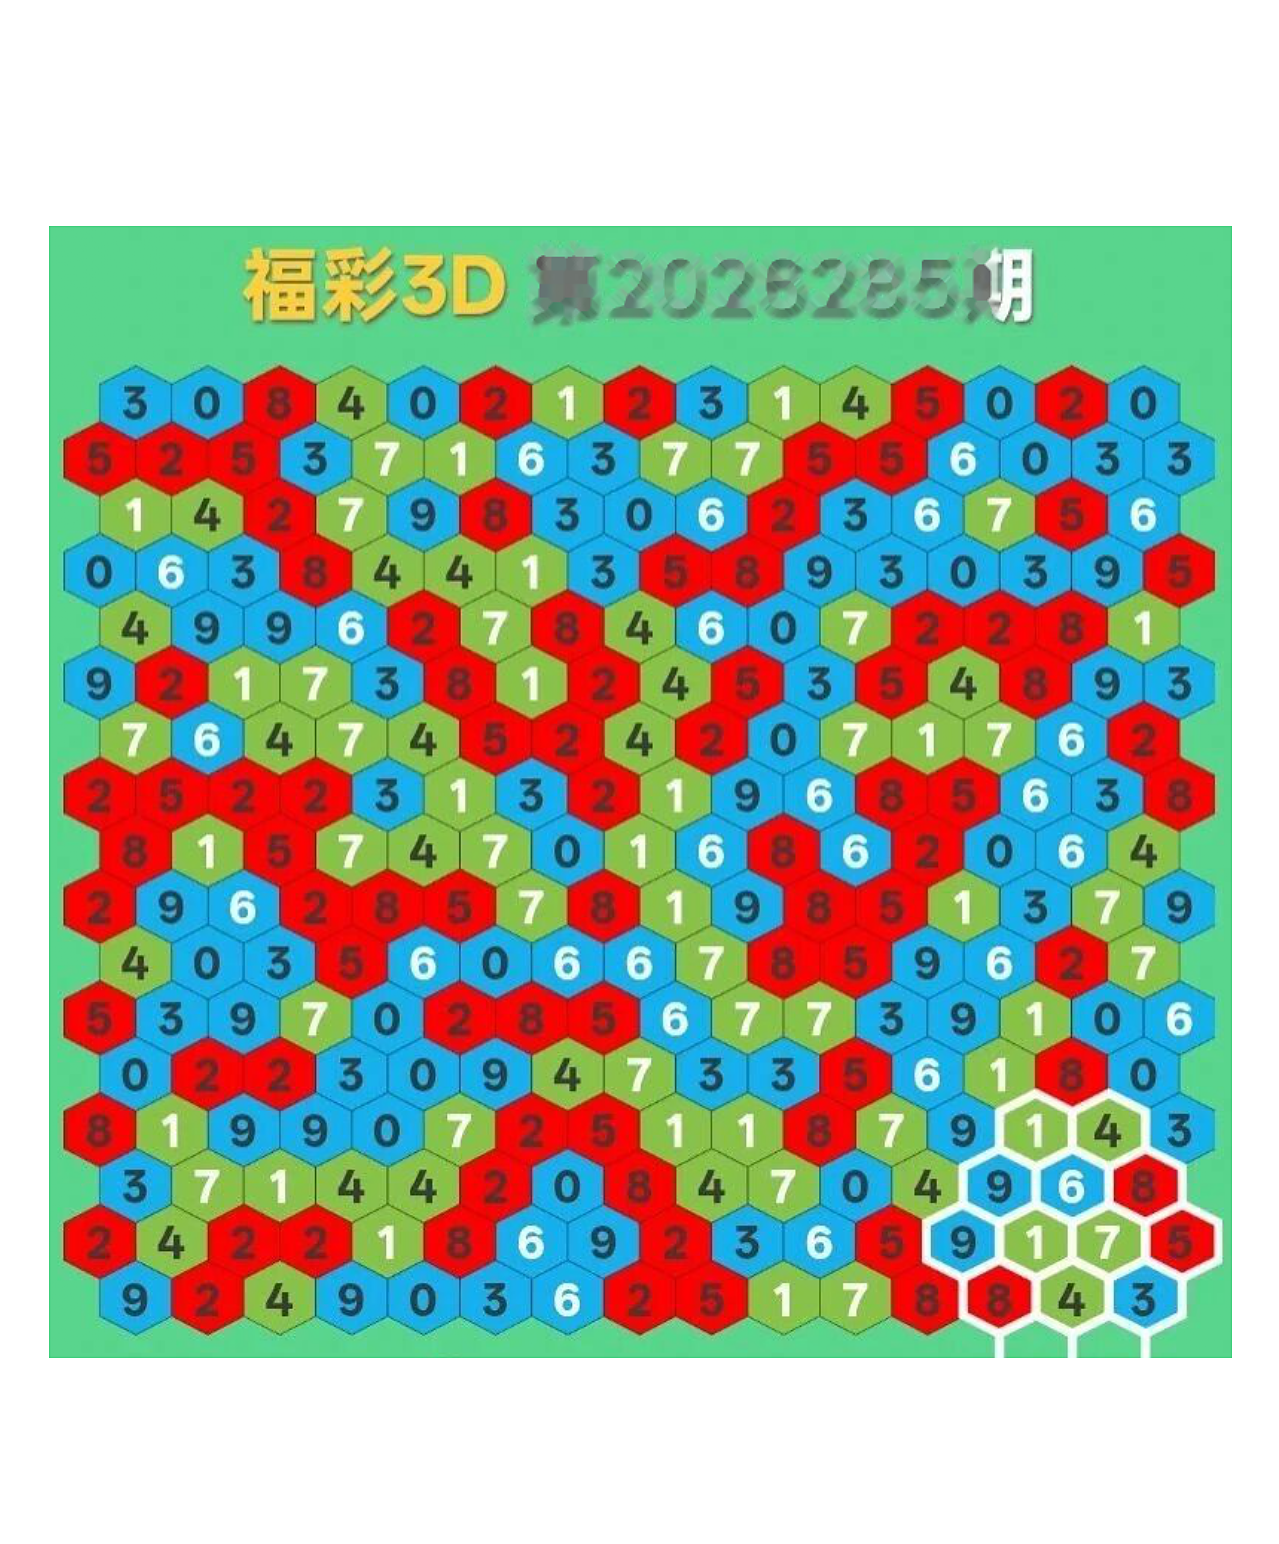
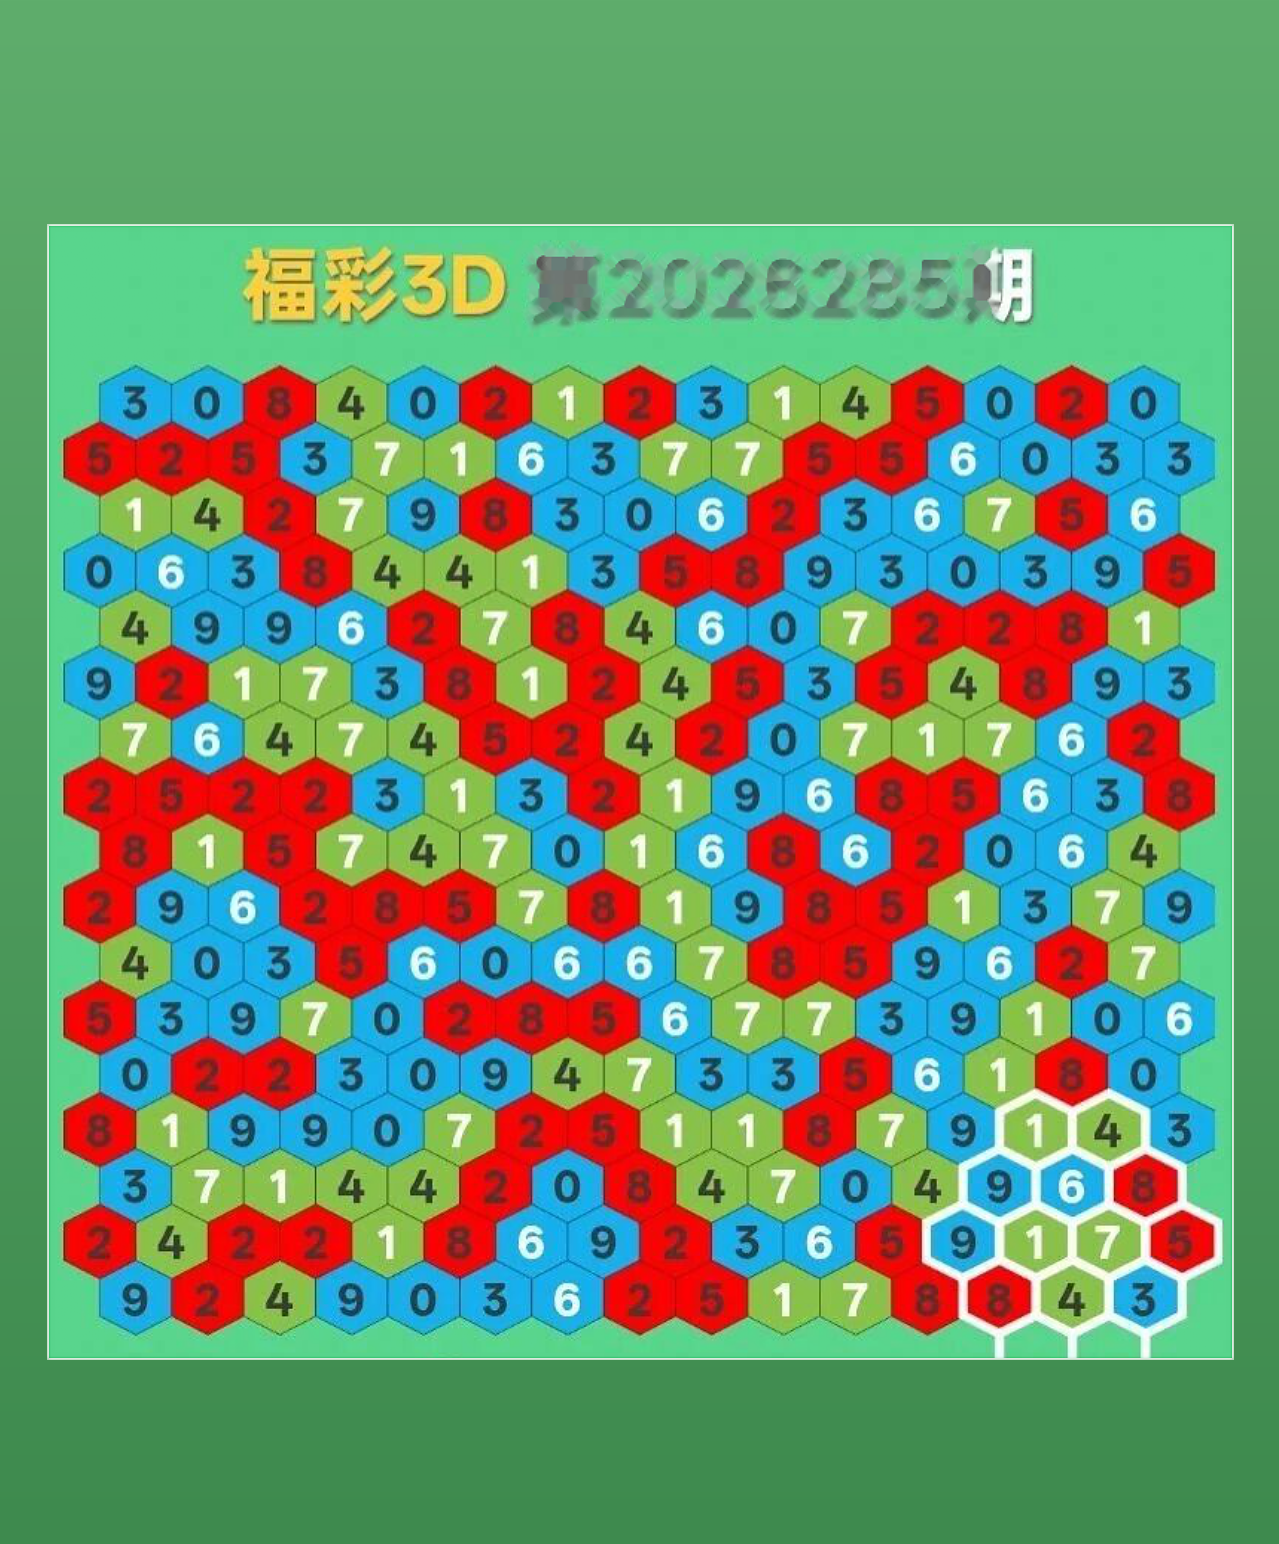
feat: fix honeycomb base and move only the 14-cell window

diff --git a/index.html b/index.html
@@ -1096,7 +1096,7 @@ function hcPickWindow(base, prevNumber) {
         if (!bestMatch ||
             compact < bestMatch.compact - 1e-6 ||
             (Math.abs(compact - bestMatch.compact) <= 1e-6 && centerError < bestMatch.centerError - 1e-6)) {
-          bestMatch = { compact, centerError };
+          bestMatch = { compact, centerError, picked: picked.map(p => p.index) };
         }
         return;
       }
@@ -1114,32 +1114,34 @@ function hcPickWindow(base, prevNumber) {
     if (bestMatch && (!best ||
         bestMatch.compact < best.compact - 1e-6 ||
         (Math.abs(bestMatch.compact - best.compact) <= 1e-6 && bestMatch.centerError < best.centerError - 1e-6))) {
-      best = { compact: bestMatch.compact, centerError: bestMatch.centerError, cells };
+      best = { compact: bestMatch.compact, centerError: bestMatch.centerError, cells, picked: bestMatch.picked };
     }
   });
-  return best ? best.cells : null;
+  if (!best) return null;
+  const centers = best.cells.map(p => center(p.r, p.c));
+  const pc = best.picked.map(i => centers[i]);
+  const rest = best.cells.map((p, i) => i).filter(i => !best.picked.includes(i));
+  let bestRef = null;
+  for (let a = 0; a < rest.length; a++) {
+    for (let b = a + 1; b < rest.length; b++) {
+      for (let c = b + 1; c < rest.length; c++) {
+        const trio = [rest[a], rest[b], rest[c]];
+        let sum = 0;
+        trio.forEach(i => pc.forEach(q => { sum += dist(centers[i], q); }));
+        if (!bestRef || sum < bestRef.sum - 1e-6) bestRef = { sum, trio };
+      }
+    }
+  }
+  const trio = bestRef ? bestRef.trio.slice().sort((x, y) => x - y) : [];
+  const ref = trio.map(i => base.digits[best.cells[i].r][best.cells[i].c]).join('');
+  return { cells: best.cells, ref };
 }
 
 const HC_TITLE = {
-  cnSize: 60,
-  cnScale: 1.16,
-  digitSize: 75,
-  digitScale: 1.30,
-  cnBaseline: 314,
-  digitBaseline: 316,
-  left: { ch: '第', x: 562 },
-  right: { ch: '期', x: 1002.5 },
-  digitX: [628, 680, 731.5, 783.5, 834.5, 885, 937],
-  labelX: [619.5, 656.5, 692, 731, 765.5, 799],
-  labelBaseline: 1488,
-  labelSize: 27,
-  bracketX: [839, 985],
-  bracketBaseline: 1489,
-  bracketSize: 30,
-  numberX: [876, 911.5, 948],
-  numberBaseline: 1491,
-  numberSize: 42,
-  numberScale: 1.66
+  brand: { text: '福彩3D', x: 440, size: 60, baseline: 330 },
+  issue: { size: 62, baseline: 332, x: 762 },
+  foot: { size: 36, x: 150, baseline1: 1442, baseline2: 1508 },
+  prev: { text: '< 上期', x: 62, size: 30, baseline: 1510 }
 };
 
 function hcTextChar(ch, x, y, size, scale, weight, fill) {
@@ -1152,40 +1154,42 @@ function hcTextChar(ch, x, y, size, scale, weight, fill) {
   return '<text x="' + x + '" y="' + y + '" text-anchor="middle" ' + attrs + '>' + ch + '</text>';
 }
 
-function hcTextParts(issue, prevNumber, fill) {
+function hcTxt(ch, x, y, size, fill, weight, anchor) {
+  return '<text x="' + x + '" y="' + y + '" text-anchor="' + (anchor || 'middle') + '" font-family="' + HC.font + '" font-size="' + size + '" fill="' + fill + '"' +
+    (weight ? ' stroke="' + fill + '" stroke-width="' + weight + '" paint-order="stroke" stroke-linejoin="round"' : '') + '>' + ch + '</text>';
+}
+
+function hcTextParts(issue, prevNumber, ref, tone) {
   const t = HC_TITLE;
-  const parts = [hcTextChar(t.left.ch, t.left.x, t.cnBaseline, t.cnSize, t.cnScale, 4.2, fill)];
-  String(issue).split('').forEach((d, i) => {
-    const x = t.digitX[i] || (t.digitX[t.digitX.length - 1] + 52 * (i - 6));
-    parts.push(hcTextChar(d, x, t.digitBaseline, t.digitSize, t.digitScale, 4.4, fill));
-  });
-  parts.push(hcTextChar(t.right.ch, t.right.x, t.cnBaseline, t.cnSize, t.cnScale, 4.2, fill));
-  '上期开奖号：'.split('').forEach((ch, i) => {
-    parts.push(hcTextChar(ch, t.labelX[i], t.labelBaseline, t.labelSize, 1, 1.6, fill));
-  });
-  String(prevNumber).split('').forEach((d, i) => {
-    const x = t.numberX[i] || (t.numberX[t.numberX.length - 1] + 36 * (i - 2));
-    parts.push(hcTextChar(d, x, t.numberBaseline, t.numberSize, t.numberScale, 4.0, fill));
-  });
-  parts.push(hcTextChar('【', t.bracketX[0], t.bracketBaseline, t.bracketSize, 1, 2.2, fill));
-  parts.push(hcTextChar('】', t.bracketX[1], t.bracketBaseline, t.bracketSize, 1, 2.2, fill));
+  const main = tone === 'shadow' ? '#2c6539' : '#fff';
+  const accent = tone === 'shadow' ? '#7a6a12' : '#ffe14d';
+  const parts = [];
+  parts.push(hcTxt(t.brand.text, t.brand.x, t.brand.baseline, t.brand.size, main, 3.6));
+  parts.push(hcTxt('第' + issue + '期', t.issue.x, t.issue.baseline, t.issue.size, accent, 3.6));
+  parts.push(hcTxt(t.prev.text, t.prev.x, t.prev.baseline, t.prev.size, tone === 'shadow' ? 'rgba(0,0,0,.25)' : 'rgba(255,255,255,.92)', 0, 'start'));
+  parts.push('<text x="' + t.foot.x + '" y="' + t.foot.baseline1 + '" font-family="' + HC.font + '" font-size="' + t.foot.size + '" fill="' + main + '">' +
+    '说明：选中 <tspan fill="' + accent + '">◆</tspan> 移动位置，找到上期开奖号<tspan fill="' + accent + '">【' + prevNumber + '】</tspan></text>');
+  parts.push('<text x="' + t.foot.x + '" y="' + t.foot.baseline2 + '" font-family="' + HC.font + '" font-size="' + t.foot.size + '" fill="' + main + '">' +
+    '用上期开奖号周边的蜂窝作为下期参考<tspan fill="' + accent + '">【' + ref + '】</tspan></text>');
   return parts.join('');
 }
 
 function hcBuildChart(base, prevNumber, issue) {
   if (!base || !Array.isArray(base.digits)) return null;
-  const windowCells = hcPickWindow(base, prevNumber);
-  if (!windowCells) return null;
+  const picked = hcPickWindow(base, prevNumber);
+  if (!picked) return null;
+  const windowCells = picked.cells;
+  const ref = picked.ref;
   const outline = hcOutlinePath(windowCells);
   const pool = windowCells.map(cell => base.digits[cell.r][cell.c]).join(' ');
   const svg = '<svg viewBox="0 0 ' + HC.imageW + ' ' + HC.imageH + '" xmlns="http://www.w3.org/2000/svg" role="img" aria-label="蜂巢九宫寻宝图，第' + issue + '期">' +
     '<image href="' + HC.image + '" x="0" y="0" width="' + HC.imageW + '" height="' + HC.imageH + '" preserveAspectRatio="none"/>' +
-    '<g transform="translate(2 2)" opacity="0.3">' + hcTextParts(issue, prevNumber, '#0a4628') + '</g>' +
-    hcTextParts(issue, prevNumber, '#fff') +
+    '<g transform="translate(3 4)" opacity="0.5">' + hcTextParts(issue, prevNumber, ref, 'shadow') + '</g>' +
+    hcTextParts(issue, prevNumber, ref, 'main') +
     '<path d="' + outline + '" fill="none" stroke="rgba(0,60,20,.18)" stroke-width="' + (HC.frameWidth + 4) + '" stroke-linejoin="round" stroke-linecap="round"/>' +
     '<path d="' + outline + '" fill="none" stroke="#fff" stroke-width="' + HC.frameWidth + '" stroke-linejoin="round" stroke-linecap="round"/>' +
     '</svg>';
-  return { svg, pool, count: windowCells.length };
+  return { svg, pool, ref, count: windowCells.length };
 }
 function buildHoneycombCard(staticDraws, base) {
   const latest = hcLatestDraw(staticDraws);
@@ -1194,13 +1198,13 @@ function buildHoneycombCard(staticDraws, base) {
   const targetIssue = Number(latest.issue) + diff;
   const chart = hcBuildChart(base, latest.number, targetIssue);
   if (!chart) return '';
-  const chips = chart.pool.split(' ').map(d => '<span class="hc-digit">' + d + '</span>').join('');
+  const chips = String(chart.ref || '').split('').map(d => '<span class="hc-digit">' + d + '</span>').join('');
   return '<article class="ref-card hc-card">' +
     '<div class="hc-chart">' + chart.svg + '</div>' +
     '<div class="hc-info">' +
-      '<div class="hc-pool"><span class="hc-pool-label">窗口参考号</span>' + chips +
-        '<button class="hc-copy" type="button" data-pool="' + chart.pool + '">复制</button></div>' +
-      '<p class="hc-note">底图数字和颜色固定；期号与上期开奖号自动更新，仅移动14格白框；仅供娱乐参考。</p>' +
+      '<div class="hc-pool"><span class="hc-pool-label">下期参考</span>' + chips +
+        '<button class="hc-copy" type="button" data-pool="' + (chart.ref || '') + '">复制</button></div>' +
+      '<p class="hc-note">底图固定，仅移动14格白框；仅供参考，不保证中奖。</p>' +
     '</div>' +
   '</article>';
 }
